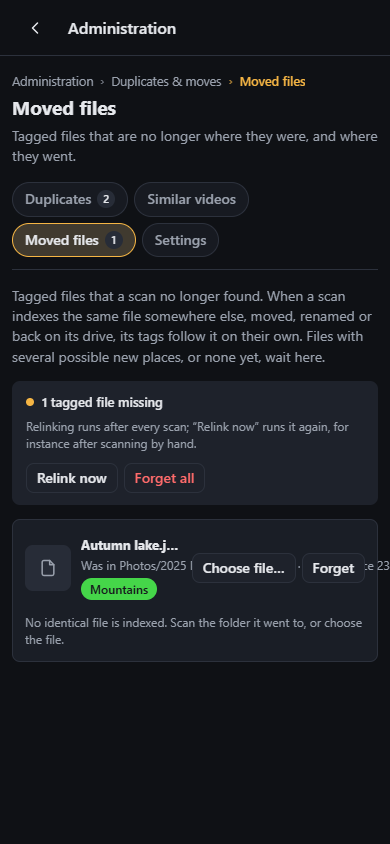
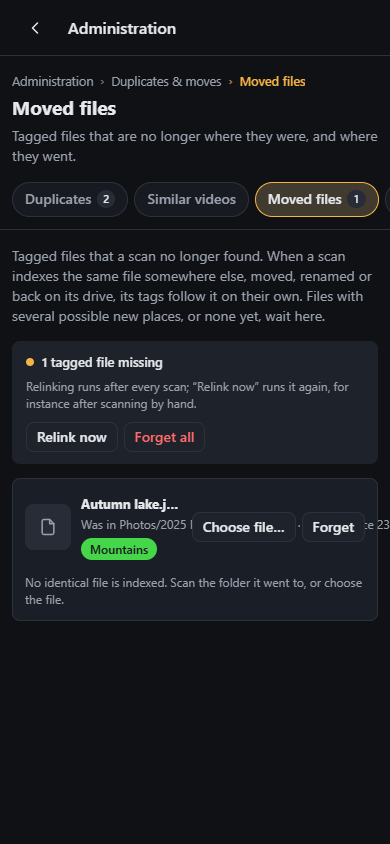
claude: admin sub-pages on one scrolling line on phones; audit finds buttons over text
Overflow menus epic, step 8: a section's sub-page chips are one line that scrolls
sideways on phones, the page shown scrolled into view (sfeChipInView).
narrow-audit.mjs covers every administration page and reports buttons drawn over
text (by-design overlays left out); it found Moved files (step 11). Plan: steps
10 and 11 decided, step 12 added (long lines in the text viewer).

diff --git a/src/Sfe.Web/src/app/admin/admin-page.component.ts b/src/Sfe.Web/src/app/admin/admin-page.component.ts
@@ -1,5 +1,5 @@
 import { Location, NgTemplateOutlet } from '@angular/common';
-import { afterNextRender, ChangeDetectionStrategy, Component, computed, DestroyRef, effect, ElementRef, inject, Injector, OnInit, signal, untracked, viewChild } from '@angular/core';
+import { afterNextRender, ChangeDetectionStrategy, Component, computed, DestroyRef, Directive, effect, ElementRef, inject, Injector, input, OnInit, signal, untracked, viewChild } from '@angular/core';
 import { toSignal } from '@angular/core/rxjs-interop';
 import { Title } from '@angular/platform-browser';
 import { ActivatedRoute, Router, RouterLink } from '@angular/router';
@@ -54,9 +54,25 @@ export { leaveAdminPage } from './leave-admin-page';
  * sub-pages and settings (admin-search.ts). The settings sub-pages share one form (SettingsForm), saved from the bar at
  * the bottom. Moving between sections and sub-pages replaces the history entry, so that "back" returns to the listing page.
  */
+/** Phones: the sub-pages' chips are one line that scrolls sideways; the one shown (`sfeChipInView`) is brought into view. */
+@Directive({ selector: '[sfeChipInView]' })
+export class ChipInViewDirective {
+    readonly sfeChipInView = input.required<string>();
+
+    constructor() {
+        const host = inject<ElementRef<HTMLElement>>(ElementRef).nativeElement;
+        const injector = inject(Injector);
+        effect(() => {
+            this.sfeChipInView();
+            // Drawn with the strip (its section loaded), and again when another sub-page is chosen.
+            afterNextRender(() => showChip(host.querySelector<HTMLElement>('[aria-selected="true"]')), { injector });
+        });
+    }
+}
+
 @Component({
     selector: 'sfe-admin-page',
-    imports: [RouterLink, NgTemplateOutlet, IconComponent, EmptyStateComponent, SettingsPanelComponent, TagListComponent, TagEditorDialog,
+    imports: [ChipInViewDirective, RouterLink, NgTemplateOutlet, IconComponent, EmptyStateComponent, SettingsPanelComponent, TagListComponent, TagEditorDialog,
         TrackingSectionComponent, TasksSectionComponent, TrickplayActivityComponent, KeepAliveStatusComponent, SystemSectionComponent, AccessSectionComponent,
         AccountSectionComponent, LogsSectionComponent, VideoStreamsComponent, TrashSectionComponent, UploadsSectionComponent, ExclusionsSectionComponent],
     providers: [SettingsForm],
@@ -225,7 +241,7 @@ export { leaveAdminPage } from './leave-admin-page';
                         </header>
                         <!-- Phones have no sidebar: the sub-pages are chips. -->
                         @if (phone() && section().subpages.length > 1) {
-                            <div class="settings-tabs admin-chips" role="tablist" [attr.aria-label]="section().title" (keydown)="onChipKey($event)">
+                            <div class="settings-tabs admin-chips" role="tablist" [attr.aria-label]="section().title" [sfeChipInView]="subpage().id" (keydown)="onChipKey($event)">
                                 @for (item of section().subpages; track item.id) {
                                     <button type="button" role="tab" class="settings-tab" [id]="'admin-chip-' + item.id" aria-controls="admin-panel"
                                             [attr.aria-selected]="subpage().id === item.id" [tabIndex]="subpage().id === item.id ? 0 : -1"
@@ -690,4 +706,17 @@ export class AdminPageComponent implements OnInit {
         if (this.form.changed())
             event.preventDefault();
     }
+}
+
+/** Scrolls the line of chips (phones) so that `chip` is fully in view, with a little room beside it. */
+export function showChip(chip: HTMLElement | null): void {
+    const strip = chip?.parentElement;
+    if (!chip || !strip)
+        return;
+    const box = strip.getBoundingClientRect();
+    const own = chip.getBoundingClientRect();
+    if (own.left < box.left)
+        strip.scrollLeft += own.left - box.left - 12;
+    else if (own.right > box.right)
+        strip.scrollLeft += own.right - box.right + 12;
 }

diff --git a/src/Sfe.Web/src/app/admin/admin-page.spec.ts b/src/Sfe.Web/src/app/admin/admin-page.spec.ts
@@ -8,6 +8,7 @@ import { Rights } from '../core/rights';
 import { ToastService } from '../core/toast.service';
 import { ListingStore } from '../library/listing.store';
 import { ContextMenu } from '../menus/context-menu';
+import { showChip } from './admin-page.component';
 import { ApiMock, buttonNamed, adminPageProviders, deferred, fakeConfig, loadConfig, mockApi, setMediaQuery, settingsValues, settle, tag, type } from '../../testing/fakes';
 import { setValue } from '../settings/settings-schema';
 import { ADMIN_GROUPS, ADMIN_SECTIONS, groupId, visibleSections } from './admin-sections';
@@ -860,5 +861,32 @@ describe('AdminPageComponent by rights and levels', () => {
         expect(api.saveSettingChanges).toHaveBeenCalledWith({ values: {}, lock: ['player.loop'], unlock: [] }, 'tenant');
         expect(lock.checked).toBe(true);
         expect(element.querySelector('.admin-savebar-status')!.textContent).toBe('Following the server\'s settings');
+    });
+});
+
+describe('showChip (phones: the line of sub-page chips)', () => {
+    /** A strip from 0 to 300 px scrolled to `scrollLeft`, and a chip at `left`–`right` on the screen. */
+    function strip(left: number, right: number, scrollLeft = 0) {
+        const line = document.createElement('div');
+        const chip = document.createElement('button');
+        line.append(chip);
+        line.scrollLeft = scrollLeft;
+        line.getBoundingClientRect = () => ({ left: 0, right: 300 }) as DOMRect;
+        chip.getBoundingClientRect = () => ({ left, right }) as DOMRect;
+        return { line, chip };
+    }
+
+    it('scrolls the chip shown into view, with room beside it, and leaves one in view alone', () => {
+        const after = strip(320, 400);
+        showChip(after.chip);
+        expect(after.line.scrollLeft).toBe(112);
+
+        const before = strip(-50, 40, 200);
+        showChip(before.chip);
+        expect(before.line.scrollLeft).toBe(138);
+
+        const shown = strip(20, 120, 30);
+        showChip(shown.chip);
+        expect(shown.line.scrollLeft).toBe(30);
     });
 });

diff --git a/src/Sfe.Web/src/styles/admin.css b/src/Sfe.Web/src/styles/admin.css
@@ -254,8 +254,19 @@ sfe-settings-panel, sfe-tag-list, sfe-trickplay-activity, sfe-system-section, sf
     .admin-head h2 { font-size: 19px; }
     /* No room for the group, which the list of sections shows anyway. */
     .admin-crumbs .admin-crumb-group { display: none; }
-    /* No sidebar: the sub-pages are chips above the page, wrapping so that all of them stay in view. */
-    .admin-chips { flex-wrap: wrap; gap: 6px; margin-top: 0; padding: 0 0 12px; overflow: visible; }
+    /* No sidebar: the sub-pages are chips above the page, one line that scrolls sideways (the one shown brought into
+       view), from edge to edge of the screen: a chip cut at the edge shows there are more. */
+    .admin-chips {
+        flex-wrap: nowrap;
+        gap: 6px;
+        margin: 0 -12px;
+        padding: 0 12px 12px;
+        overflow-x: auto;
+        scrollbar-width: none;
+        overscroll-behavior-x: contain;
+    }
+    .admin-chips::-webkit-scrollbar { display: none; }
+    .admin-chips .settings-tab { white-space: nowrap; }
     .admin-chips .settings-tab {
         padding: 6px 12px;
         border: 1px solid var(--border);

diff --git a/agents/docs/development/overflow-menus-plan.md b/agents/docs/development/overflow-menus-plan.md
@@ -42,8 +42,10 @@ Status legend: `[ ]` to do, `[~]` started, `[x]` done (version), `[-]` dropped (
 | [5](#step-5--document-viewers-toolbars) | Document viewers' toolbars (text, PDF, EPUB, Markdown, JSON, CSV, subtitles) | `[x]` committed (version at the merge into main) |
 | [6](#step-6--picture-editor) | Picture editor | `[-]` fine at every size (audit) |
 | [7](#step-7--top-bar-and-location-bar) | Location bar: the folder actions (the top bar is fine) | `[x]` committed (version at the merge into main) |
-| [8](#step-8--administration-toolbars) | Administration tabs (logs and tasks toolbars are fine) | `[ ]` |
-| [10](#step-10--file-names-in-the-list-view) | File names in the list view, buttons cut in landscape (found in step 2) | `[ ]` |
+| [8](#step-8--administration-toolbars) | Administration tabs (logs and tasks toolbars are fine) | `[x]` committed (version at the merge into main) |
+| [10](#step-10--file-names-in-the-list-view) | File names in the list view, buttons cut in landscape (found in step 2) | `[ ]` decided, to build |
+| [11](#step-11--moved-files-on-a-phone) | Moved files (missing files): buttons over the file's text on phones (found in step 8) | `[ ]` decided, to build |
+| [12](#step-12--long-lines-in-the-text-viewer) | Text viewer: wrap long lines, or scroll sideways when off (asked by the developer) | `[ ]` |
 | [9](#step-9--finishing) | Finishing (notes, rule, plan removed) | `[ ]` |
 
 ## Target sizes
@@ -210,6 +212,7 @@ Results (360×800, 390×844, 414×896, 800×360):
 | Administration tabs (`.settings-tabs`: Duplicates, Tasks) | on 2 lines, nothing cut | 8 |
 | List view, landscape 800×360 | names one letter wide, tag and ⋮ cut off (the sidebar shows above 760 px) | 10 |
 | Viewer bar, picture editor, top bar, menus, dialogs (properties, folder tags), EPUB, Markdown in the viewer, logs, accounts, settings | nothing | 4, 6 dropped |
+| Again 2026-10-24, every administration page added (33) and a check for **buttons over text** (by-design overlays left out: menus, fixed / sticky bars, the viewer's arrows, text clipped by its scrolling box) | Moved files: Choose file… and Forget over the file's text, every size | 11 |
 
 ## Step 4 — viewer bar
 
@@ -291,15 +294,22 @@ every action and more (Paste, Select all, Refresh, Properties), which phones cou
 
 ## Step 8 — administration toolbars
 
-Code: `app/logs/logs-section.component.ts`, `app/tasks/task-history.component.ts`,
-`app/library/scan/scan-panel.component.ts`, others the audit finds. One question per toolbar.
+Code: `app/admin/admin-page.component.ts` (`.admin-chips`, `ChipInViewDirective`, `showChip`), `styles/admin.css`.
+The audit found only the sub-page chips of a section on phones wrapping onto 2 lines (Duplicates & moves: 4 chips);
+the logs, tasks and scan panel toolbars are fine.
 
-Decided: _(empty: ask first, per toolbar)_
+Decided (2026-10-24): the chips are **one line that scrolls sideways** (not a "⋯": they are navigation).
 
-- [ ] Logs: asked, decided, done.
-- [ ] Task history: asked, decided, done.
-- [ ] Scan panel: asked, decided, done.
-- [ ] Specs, visual check, `CHANGELOG.md`, `docs/` screenshots.
+- [x] Asked, Decided written.
+- [x] `.admin-chips` (≤ 640 px): `nowrap`, `overflow-x: auto`, edge to edge (`margin: 0 -12px`), no scrollbar; a chip
+      cut at the edge shows there are more. `[sfeChipInView]` on the strip scrolls the selected chip into view (12 px
+      room) after each render: an effect in the page's constructor ran before the chips existed (the section loads
+      first) and never scrolled.
+- [x] Spec: `showChip` (scrolls right, left, or not at all) in `admin-page.spec.ts`; `narrow-audit.mjs` scene
+      `admin-tracking-settings` (the last chip): nothing found, the strip scrolled to it (checked in the screenshot).
+- [x] `docs/administration/README.md` (On a phone), `CHANGELOG.md`.
+- [x] `npm test` passes; no server change.
+- [x] Committed on `edge`; the version comes with the merge into `main`.
 
 ## Step 10 — file names in the list view
 
@@ -313,11 +323,56 @@ Code: `items/file-tile.component.ts` (`FileRowComponent`), `styles/items.css`, `
 Ask the developer: on a phone, what should a list row show and what may go (the type badge, the size, the
 resolution, the tag button, the ⋮)? Names on two lines at most, ellipsis after, or whole names wrapped at spaces?
 
-Decided: _(empty: ask first)_
+Decided (2026-10-24, shown as mockups): when the **list itself is narrow** (a phone, and landscape with the sidebar:
+a container query on the list, not a screen breakpoint), a row has **two lines**: the name on the whole first line,
+type · size · resolution under it in small text (then the tags); picture on the left, tag and ⋮ on the right.
 
-- [ ] Questions asked, Decided written.
+- [x] Questions asked, Decided written.
 - [ ] Fix; specs if the template changes; `overflow.mjs` scene for the list view at the target sizes; screenshots.
 - [ ] `docs/` if visible, `CHANGELOG.md`.
+- [ ] `npm test` passes.
+
+## Step 11 — moved files on a phone
+
+Found in step 8 (2026-10-24, `docs/images/phone-admin-section.png`, 390×844, Duplicates & moves › Moved files): a
+missing file's **Choose file…** and **Forget** buttons are drawn over its text ("Was in Photos/2025 I… · ce 23"):
+the row's buttons don't leave room for the path and the date. `narrow-audit.mjs` doesn't see overlaps (only things off
+screen, cut or wrapped): check the screenshots too.
+
+Code: `app/tracking/` (missing files panel, `tracking-parts.ts`), `styles/` (tracking rows).
+
+Ask the developer: on a phone, the buttons under the file's text (a line of their own), or in a "⋯"?
+
+Decided (2026-10-24, shown as mockups): when the row is narrow, **Choose file… and Forget go on a line below** the
+file's text, right-aligned; on a computer, as today when there is room.
+
+- [x] Questions asked, Decided written.
+- [ ] Fix; specs if the template changes; screenshots at the target sizes.
+- [ ] `docs/` if visible, `CHANGELOG.md`.
+- [ ] `npm test` passes.
+
+## Step 12 — long lines in the text viewer
+
+Asked by the developer (2026-10-24): in the text viewer a line too long for the screen is **cut off**. Wanted: an
+option to **wrap long lines** and, when it is off, **scrolling sideways** to read the rest of the line.
+
+Known before starting: the toolbar already has **Wrap long lines** (`own().wrap`, a reading preference per profile;
+CodeMirror's `lineWrapping`), and step 5 gave `.text-view` `grid-template-columns: minmax(0, 1fr)` (before, a long
+line widened the whole viewer). To check first, on a phone and a computer, every reader (text, log, code, Markdown and
+JSON sources, the editor): is the line cut with wrapping off (no horizontal scroll in `.cm-scroller`), is the option
+easy to find, does a swipe sideways reach the end of the line (and not go to the next file: the viewer's swipe)?
+
+Code: `app/formats/text/codemirror.ts`, `text-view.component.ts`, `app/formats/reading/`, `styles/reader.css`,
+`library/viewer/viewer.component.ts` (swipes).
+
+Ask the developer: wrapping on by default on phones? Where the option lives (the toolbar's button, the "Aa" panel, both)?
+A sideways swipe on the text: scroll the line, and change files only from the arrows / the swipe outside the text?
+
+Decided: _(empty: ask first)_
+
+- [ ] Checked how it behaves now (screenshots at the target sizes and on a computer); questions asked, Decided written.
+- [ ] Fix: wrapping option, horizontal scroll when off; specs.
+- [ ] `docs/user-guide/text-files.md`, `CHANGELOG.md`.
 - [ ] `npm test` passes.
 
 ## Step 9 — finishing

diff --git a/agents/tools/visual-check/README.md b/agents/tools/visual-check/README.md
@@ -13,4 +13,4 @@ a missing `chunk-….js`).
 | `context-menus.mjs [<out prefix>]` | Real right clicks (CDP) on a file, a folder, a breadcrumb and the background, the ContextMenu key and Shift+F10 (the browser's echo swallowed), Shift and a text field keeping the browser's menu, Open in new tab opening a tab, the sheet at 390 px; prints `ok`/`FAIL` per check (exit code 1 on a failure), saves `<prefix>-file.png`, `-background.png`, `-viewer.png`, `-phone.png`. Also the viewer (picture, video and its Speed submenu), a tag chip, the main menu's links, the administration page, and no menu in a sheet or the viewer's bar while a reader keeps its own; every row of the context menu plan's map: a multi-selection, folder nav, quick links, a search result's folder, search history, the picture editor's canvas, the /player page, Duplicates, the trash (a file made and purged for it), the folder picker, and phone sheets (file, folder link, viewer). A tab it opens is closed again: a page left in a background tab isn't laid out (stale hit-testing) |
 | `phone-sheets.mjs <out prefix>` | 390 px, classic scrollbars, list view: the item menu and a dialog sheet span the whole width (left 0, right 390), the rows keep their width and the scroll position stays; prints the numbers and saves `<prefix>-menu.png`, `<prefix>-dialog.png` |
 | `overflow.mjs <out prefix> [scene...]` | Rows of buttons at the target sizes of the overflow menus epic (360×800, 390×844, 414×896, 800×360, 1280×800): each scene's rows (`.player-row`…) on one line, inside themselves and the screen, the page no wider than it; prints `ok`/`FAIL` with what left the row and the "⋯" menu's entries (exit code 1 on a failure), saves `<prefix>-<scene>-<size>.png` and `-menu.png`. Scenes: `viewer-video`, `viewer-fullscreen` (a real click on Fullscreen: the menu above the fullscreen player), `player-page`; more come with the epic's audit step |
-| `narrow-audit.mjs <out prefix> [scene...]` | Every screen at the phone sizes (360×800, 390×844, 414×896, 800×360; `- list` lists the ~30 scenes: listing views, menus, dialogs, each viewer, the editors, the player and view pages, administration pages): reports elements off the screen, buttons cut off by a box that doesn't scroll, rows of 3+ buttons on several lines, the page wider than the screen; behind a modal dialog only the dialog counts; a summary per scene at the end; screenshots `<prefix>-<scene>-<size>.png`. All scenes take ~12 minutes: run it in the background |
+| `narrow-audit.mjs <out prefix> [scene...]` | Every screen at the phone sizes (360×800, 390×844, 414×896, 800×360; `- list` lists the ~30 scenes: listing views, menus, dialogs, each viewer, the editors, the player and view pages, administration pages): reports elements off the screen, buttons cut off by a box that doesn't scroll, buttons drawn over text that isn't theirs, rows of 3+ buttons on several lines, the page wider than the screen; behind a modal dialog only the dialog counts; a summary per scene at the end; screenshots `<prefix>-<scene>-<size>.png`. All scenes take ~12 minutes: run it in the background |

diff --git a/CHANGELOG.md b/CHANGELOG.md
@@ -21,6 +21,8 @@ scan) is in [docs/upgrading.md](docs/upgrading.md).
 - On a phone, the **folder's buttons beside the path** (quick link, tags, upload, new file, new folder, copy path) give
   way to one **⋯** opening the folder's menu, the same as a right click on a computer (with Paste, Select all, Refresh,
   Properties…): the path keeps its line, and the files start higher. They used to fill one or two lines of their own.
+- On a phone, the **sub-pages of an administration section** (chips at the top) are one line that scrolls sideways, the
+  page shown scrolled into view, instead of wrapping onto two lines.
 - SFE's **work files** (the trash, unfinished uploads) go to the server's data folder by default, no longer to a
   hidden `.sfe` folder in the library. The spaces of an install updated from an earlier version keep theirs in the
   library; only new installs and spaces created later start on the server.

diff --git a/docs/administration/README.md b/docs/administration/README.md
@@ -80,5 +80,6 @@ sign-in. Set them in the [configuration](../configuration.md).
 <img src="../images/phone-admin-section.png" alt="A section on a phone, with its breadcrumbs and pages as chips" width="300">
 
 On phones the page opens on the list of sections, with the search box at its top, each one then a page of its own with a
-back arrow to the list and its pages as chips at the top. The breadcrumbs leave the group out there, and **Administration** in them returns to the list
+back arrow to the list and its pages as chips at the top, on one line that scrolls sideways when they don't all fit
+(the page shown is scrolled into view). The breadcrumbs leave the group out there, and **Administration** in them returns to the list
 of sections.

diff --git a/agents/docs/features/admin-page.md b/agents/docs/features/admin-page.md
@@ -36,3 +36,5 @@ Code: `src/app/admin/` (`AdminPageComponent`, `admin-sections.ts`, `leave-admin-
   `sfeFromList` (kept by `go`), so back (arrow or browser) returns to the list.
 - `TagManagerDialog` stays on the listing page (sidebar, tag dialogs) around the same `TagListComponent`.
 - Tests: `adminPageProviders(api)` + `RouterTestingHarness` ([testing.md](../development/testing.md)).
+- Phones: a section's sub-page chips (`.admin-chips`) are one line scrolling sideways; `[sfeChipInView]` (with
+  `showChip`) scrolls the selected one into view after each render (overflow menus plan, step 8).
